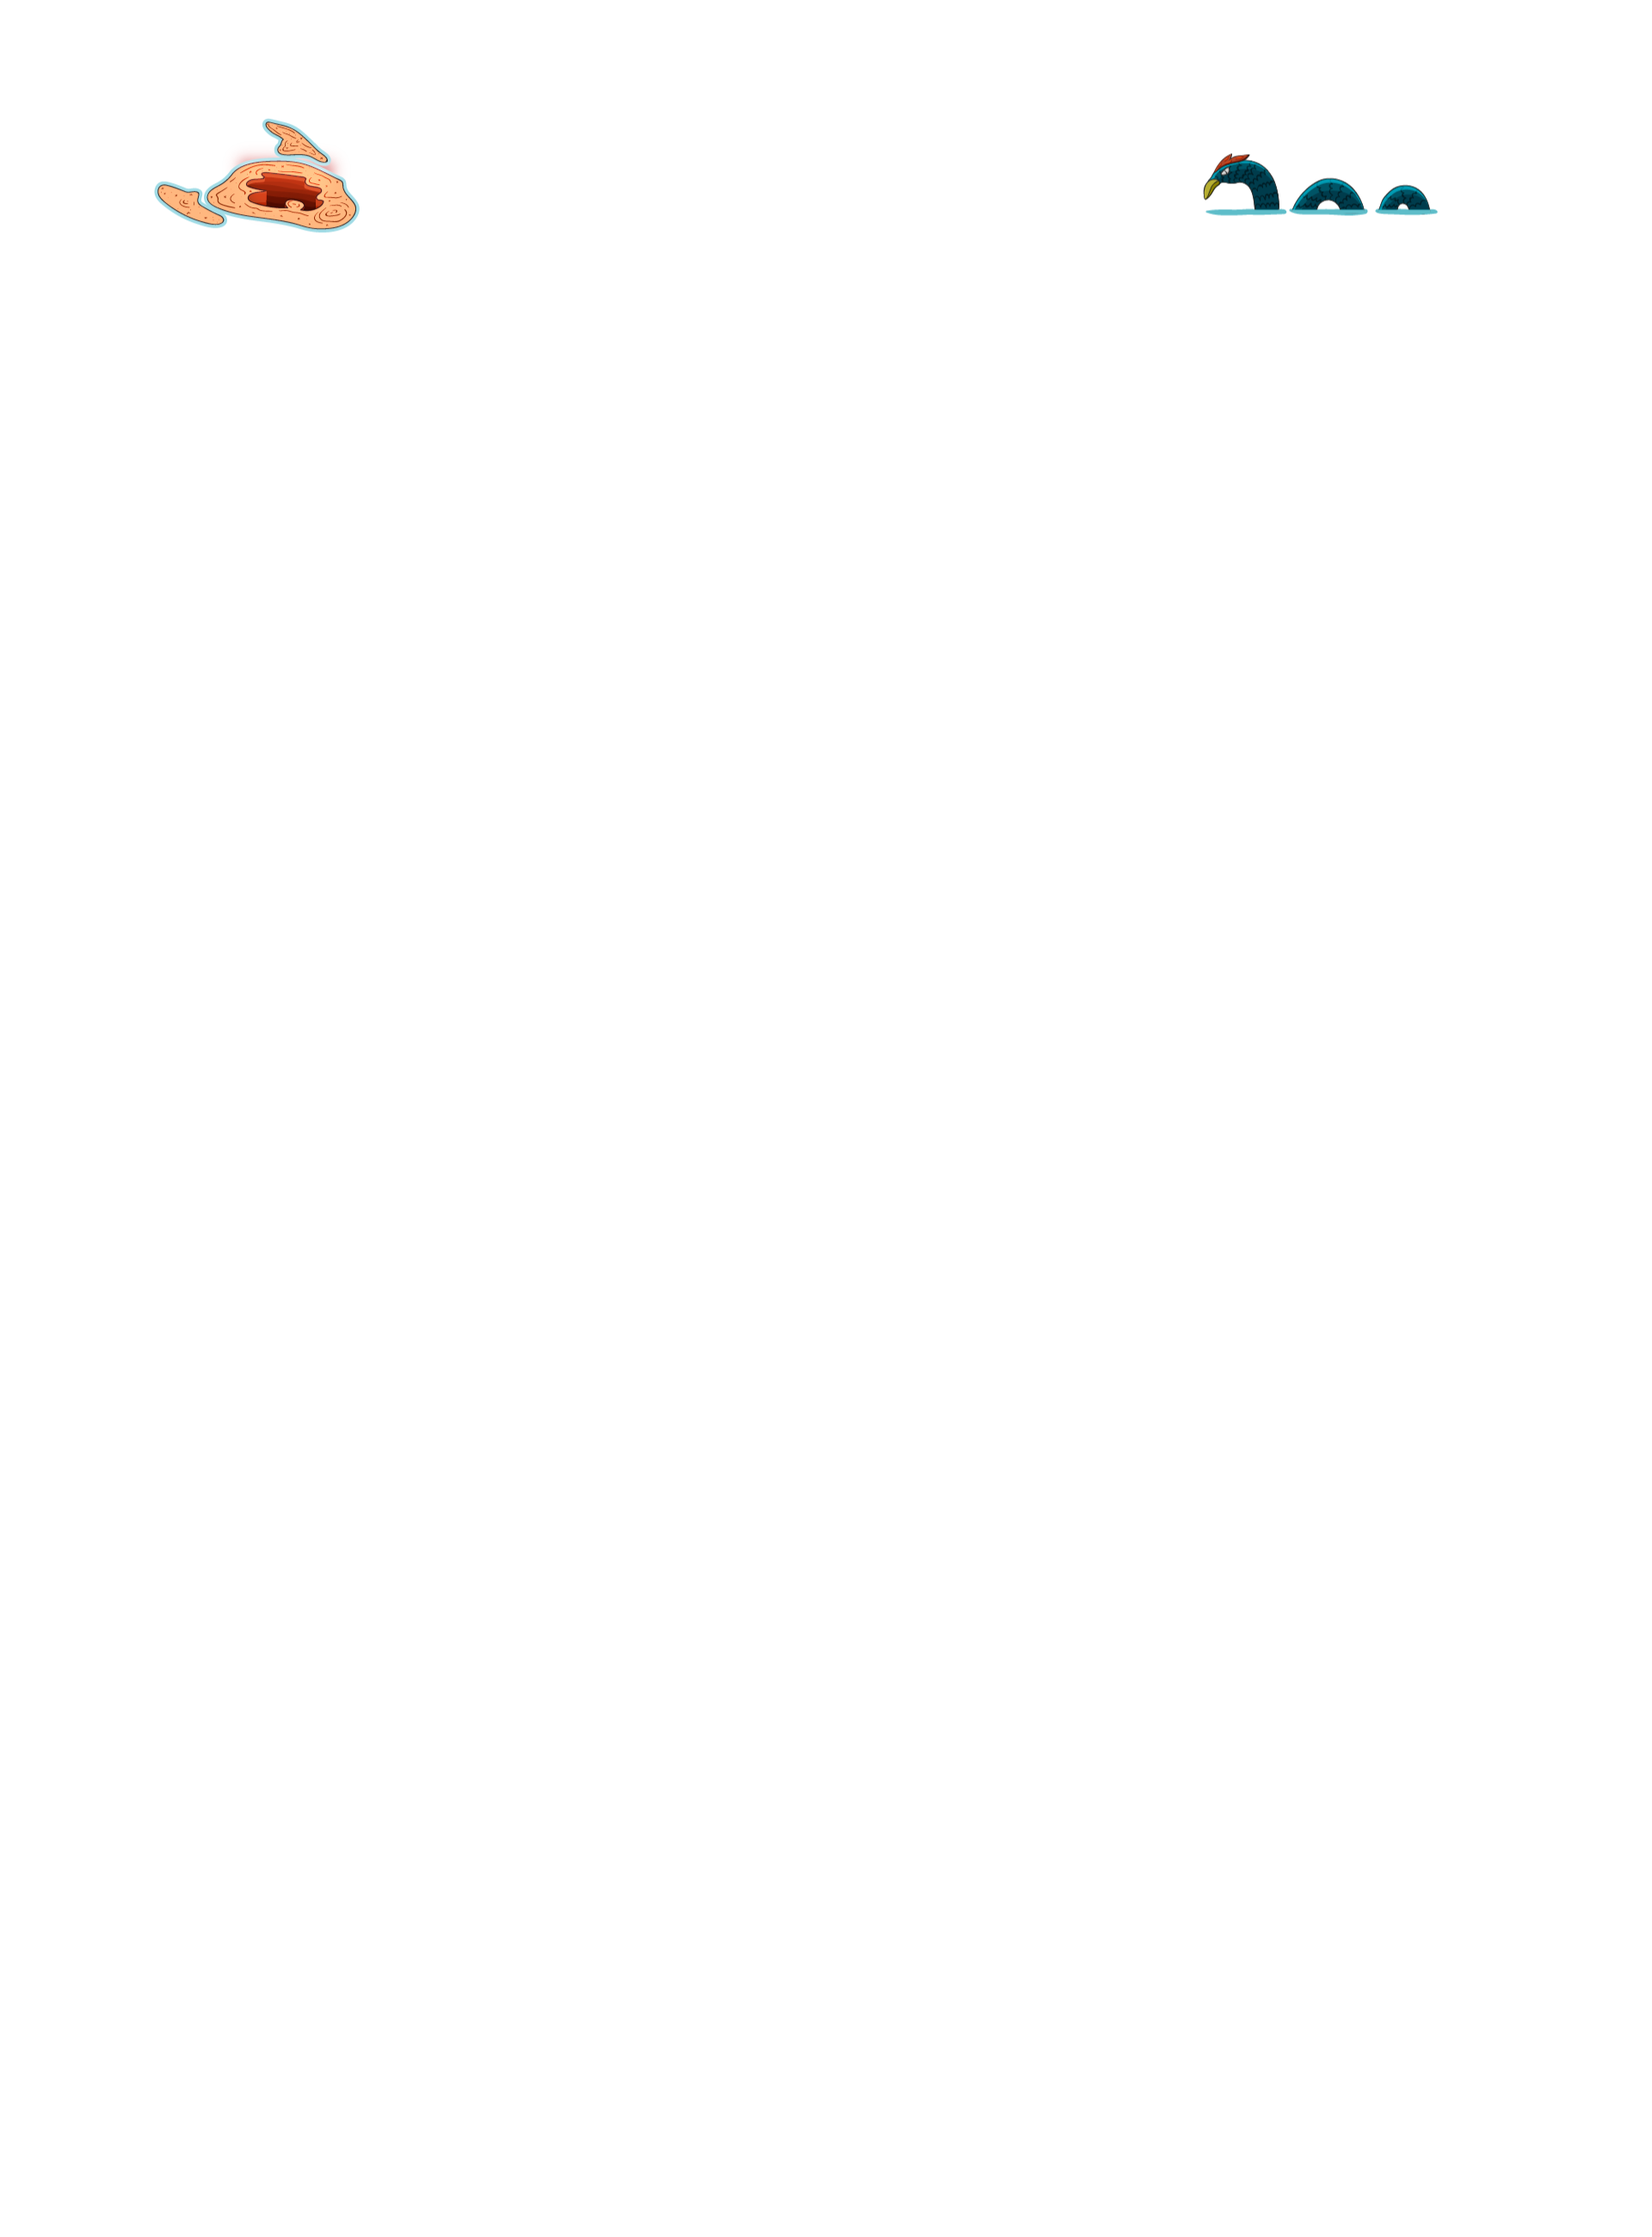
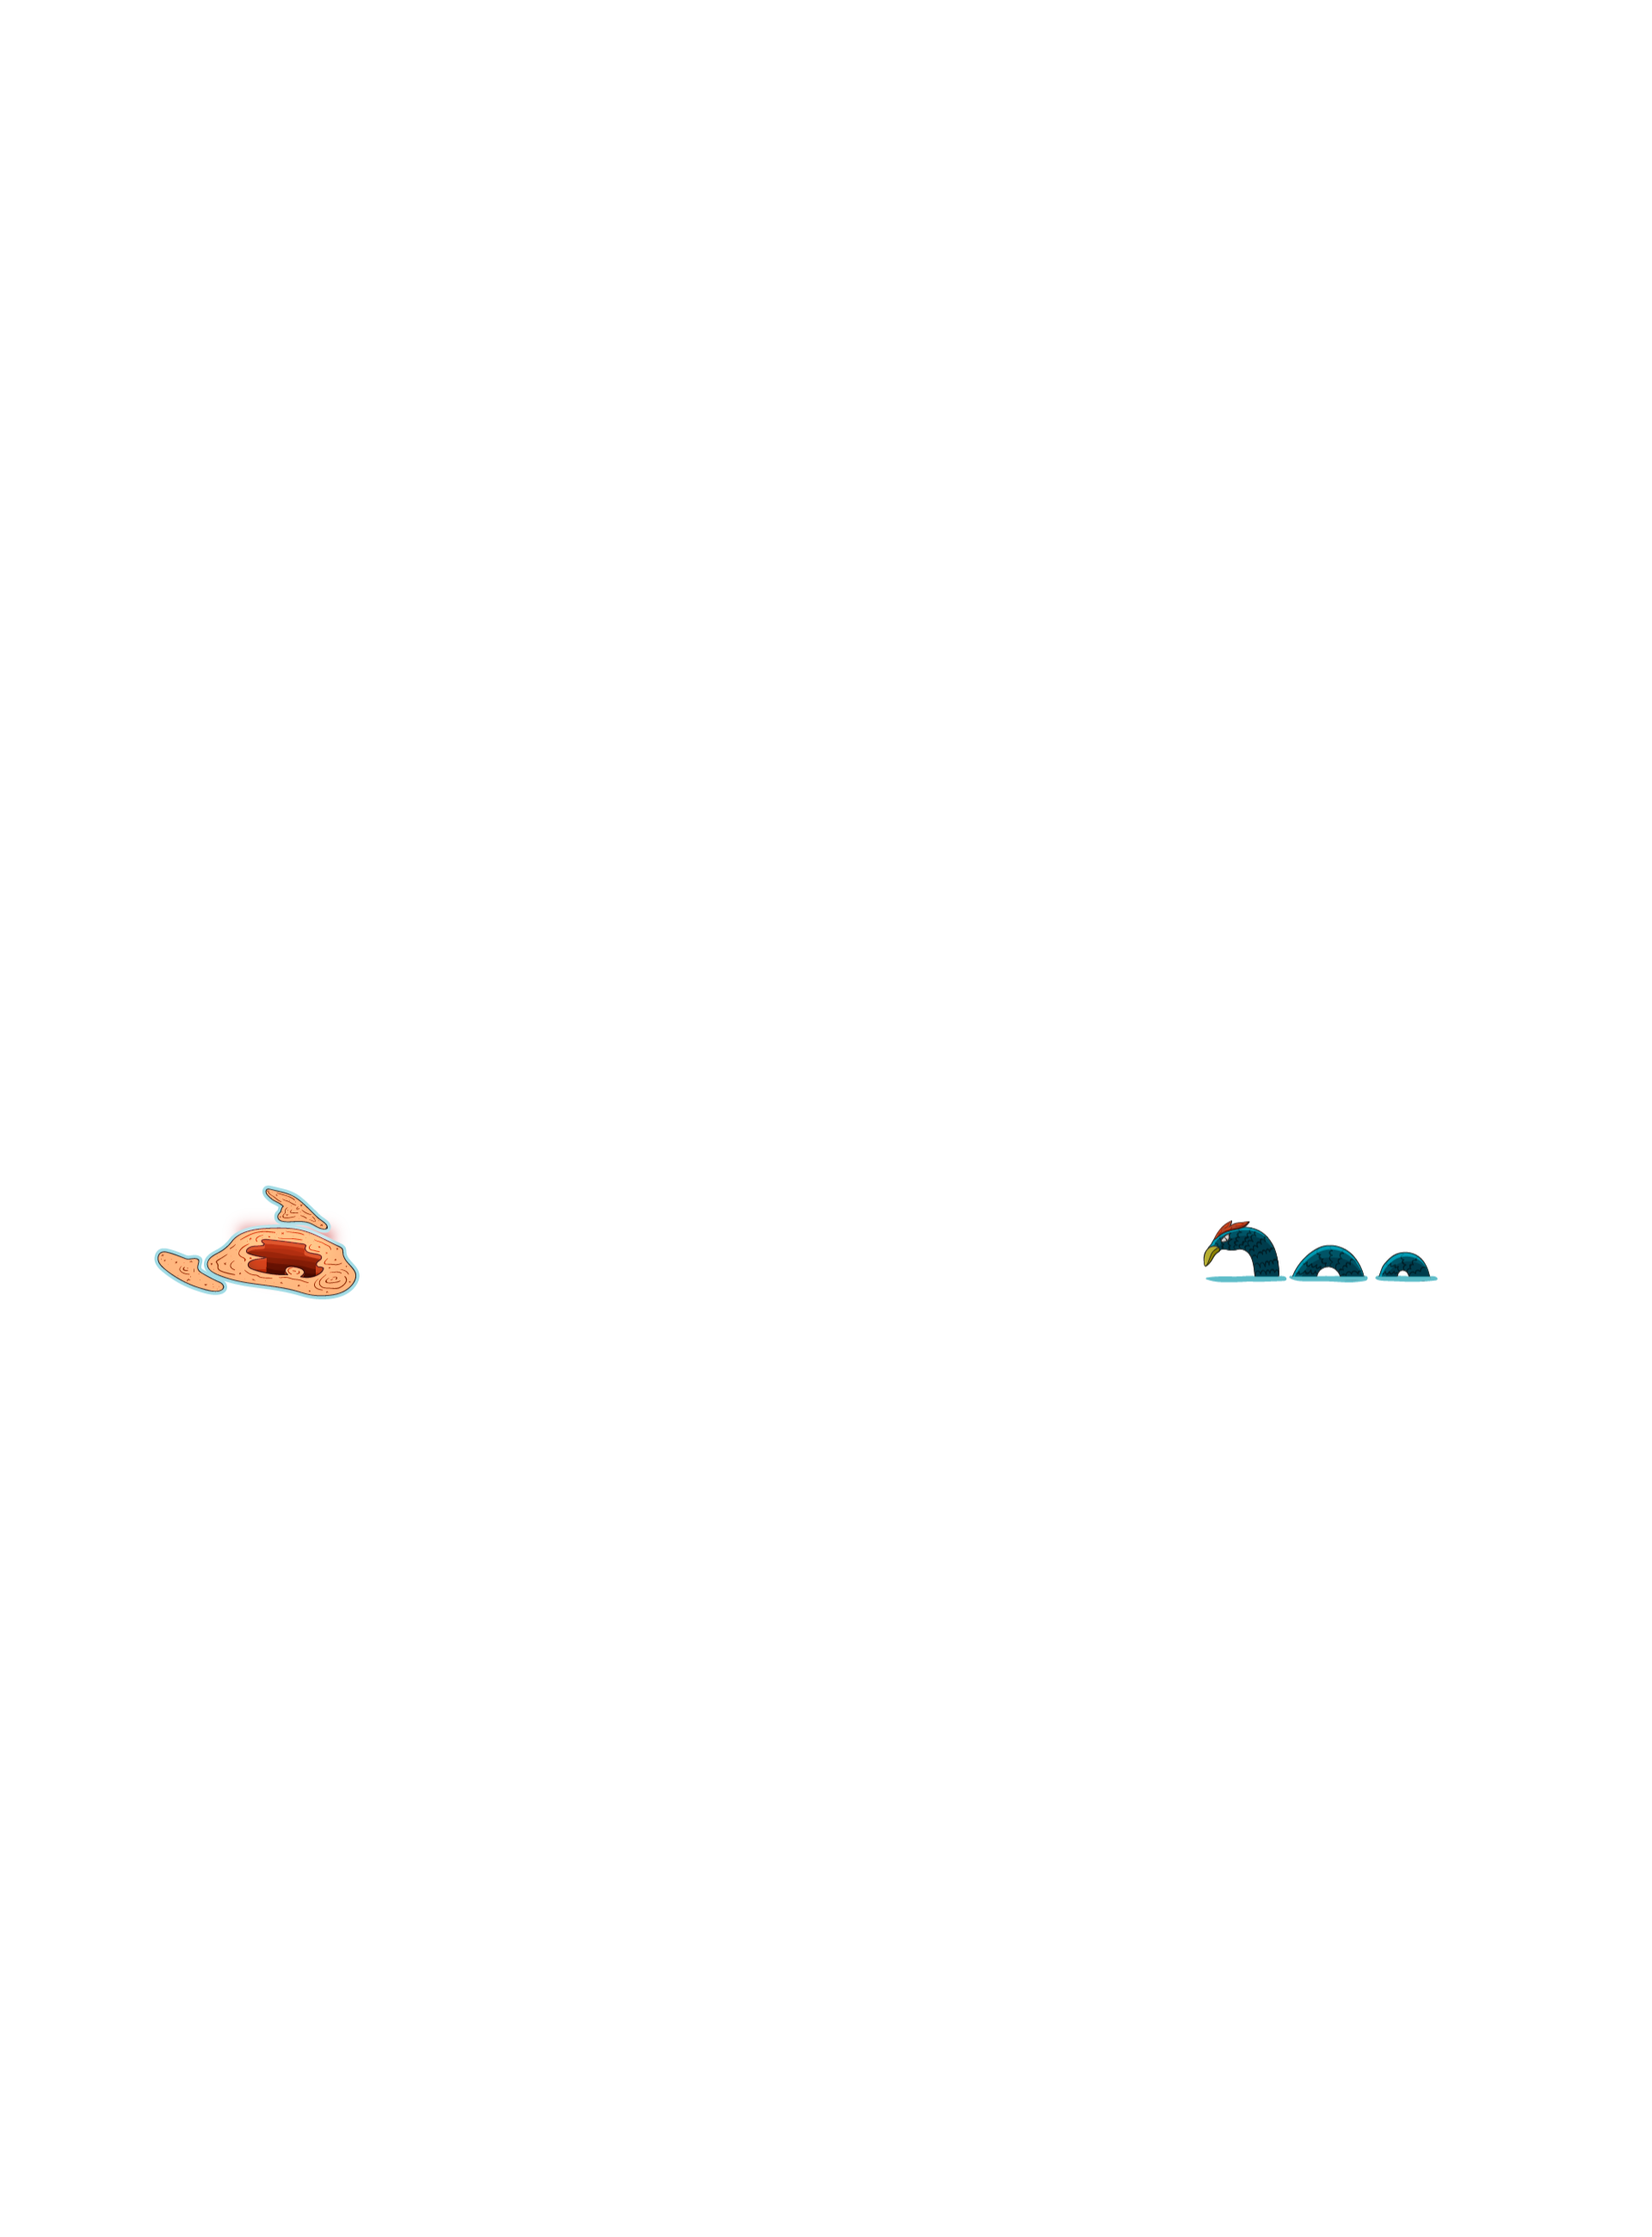
Parallax effect improved

diff --git a/src/app/home/home.js b/src/app/home/home.js
@@ -15,13 +15,14 @@ angular.module( 'ngBoilerplate.home', [
     data:{ pageTitle: 'Mr. Alpaca Games' }
   });
 })
-.controller( 'HomeCtrl', function HomeController( $scope, $window, $timeout ) {
+.controller( 'HomeCtrl', function HomeController( $scope, $window, $timeout, $document ) {
   var vm = this;
-  vm.mrAlpacaDesc = 'We are Mr. Alpaca Games, a video games studio from Colombia';
+  var layers = [];
+  var banner = null;
 
   activate();
   function activate() {
-    var opThresh = 350;
+    /* var opThresh = 350;
     var opFactor = 750;
     
     $window.addEventListener("scroll", function(event) {
@@ -35,10 +36,42 @@ angular.module( 'ngBoilerplate.home', [
         yPos = -(top * speed / 100);
         layer.setAttribute('style', 'transform: translate3d(0px, ' + yPos + 'px, 0px)');
       }
-    });
+    }); */
 
+    $timeout(readDom, 200);
+  }
+  
+  function readDom() {
+    var layerElements = $document[0].querySelectorAll(".parallax-layer");
+    
+    banner = $document[0].querySelectorAll("#parallax-container")[0];
+    for (var i = 0; i < layerElements.length; i ++) {
+      layers.push({
+        element: layerElements[i],
+        scroll: layerElements[i].getAttribute("data-scroll"),
+        offset: layerElements[i].getAttribute("data-yoffset")
+      });
+    }
+    layerElements = null;
+    
+    $document[0].addEventListener("scroll", updateScrollValue);
     $window.addEventListener("resize", handleVideo);
-    $timeout(handleVideo, 200);
+    $window.addEventListener("resize", updateScrollValue);
+    updateScrollValue();
+    handleVideo();
+  }
+
+  // update a speicifc layer offset
+  function updateLayerOffset(scroll, layer) {
+    var offset = -((scroll * layer.scroll) - layer.offset * (banner.clientHeight / 3680));
+    layer.element.style.transform = "translate3d(0, " + offset + "px, 0)";
+  }
+
+  function updateScrollValue() {
+    var scroll = $window.scrollY;
+    for (var i = 0; i < layers.length; i ++) {
+        updateLayerOffset(scroll, layers[i]);
+    }
   }
 
   /*jshint -W065 */

diff --git a/src/app/home/title-bar/title-bar.tpl.html b/src/app/home/title-bar/title-bar.tpl.html
@@ -1,20 +1,20 @@
 <div class="title-bar-container">
   <div id="parallax-container">
     <!-- The Hegg & The Eggaterious -->
-    <div id="parallax-img-1" class="parallax-layer parallax" data-speed="15"></div>
+    <div id="parallax-img-1" class="parallax-layer parallax" data-scroll="0.08" data-yoffset="300"></div>
     <!-- Eggorias (without Airheads) -->
-    <div id="parallax-img-2" class="parallax-layer parallax" data-speed="19"></div>
+    <div id="parallax-img-2" class="parallax-layer parallax" data-scroll="0.05" data-yoffset="100"></div>
     <!-- Airheads -->
-    <div id="parallax-img-3" class="parallax-layer parallax" data-speed="13"></div>
+    <div id="parallax-img-3" class="parallax-layer parallax" data-scroll="0.10" data-yoffset="100"></div>
     <!-- Archivald -->
-    <div id="parallax-img-4" class="parallax-layer parallax" data-speed="28"></div>
+    <div id="parallax-img-4" class="parallax-layer parallax" data-scroll="0.18" data-yoffset="0"></div>
     <!-- Kai -->
-    <div id="parallax-img-5" class="parallax-layer parallax" data-speed="38"></div>
+    <div id="parallax-img-5" class="parallax-layer parallax" data-scroll="0.25" data-yoffset="0"></div>
     <!-- Oswald -->
-    <div id="parallax-img-6" class="parallax-layer parallax" data-speed="52"></div>
+    <div id="parallax-img-6" class="parallax-layer parallax" data-scroll="0.38" data-yoffset="0"></div>
     <!-- Arsger -->
-    <div id="parallax-img-7" class="parallax-layer parallax" data-speed="68"></div>
+    <div id="parallax-img-7" class="parallax-layer parallax" data-scroll="0.45" data-yoffset="0"></div>
     <!-- Logo -->
-    <div id="parallax-img-8" class="parallax-layer parallax" data-speed="3"></div>
+    <div id="parallax-img-8" class="parallax-layer parallax" data-scroll="0.01" data-yoffset="0"></div>
   </div>
 </div>

diff --git a/src/app/home/title-bar/title-bar.less b/src/app/home/title-bar/title-bar.less
@@ -11,7 +11,7 @@
     width: 100%;
     overflow: hidden;
     margin-top: @header-height;
-    padding-bottom: 150%;
+    padding-bottom: 134%;
 
     @media @phones {
       margin-top: @header-height-mobile;

diff --git a/src/app/home/features/features.less b/src/app/home/features/features.less
@@ -54,7 +54,12 @@
         }
 
         .img-container {
+          width: 100%;
           order: 1;
+
+          img {
+            width: 100%;
+          }
         }
 
         .desc-container {
